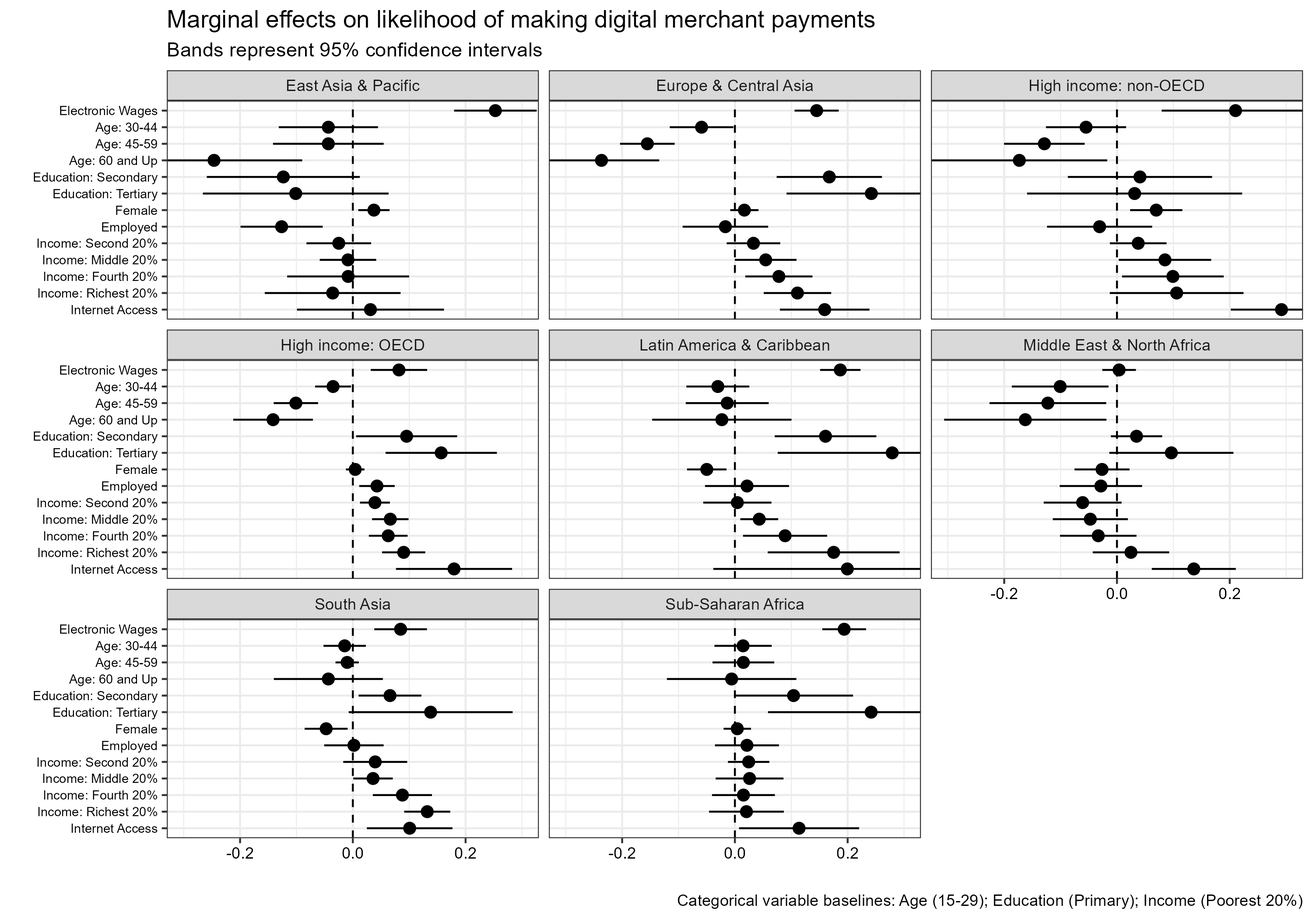
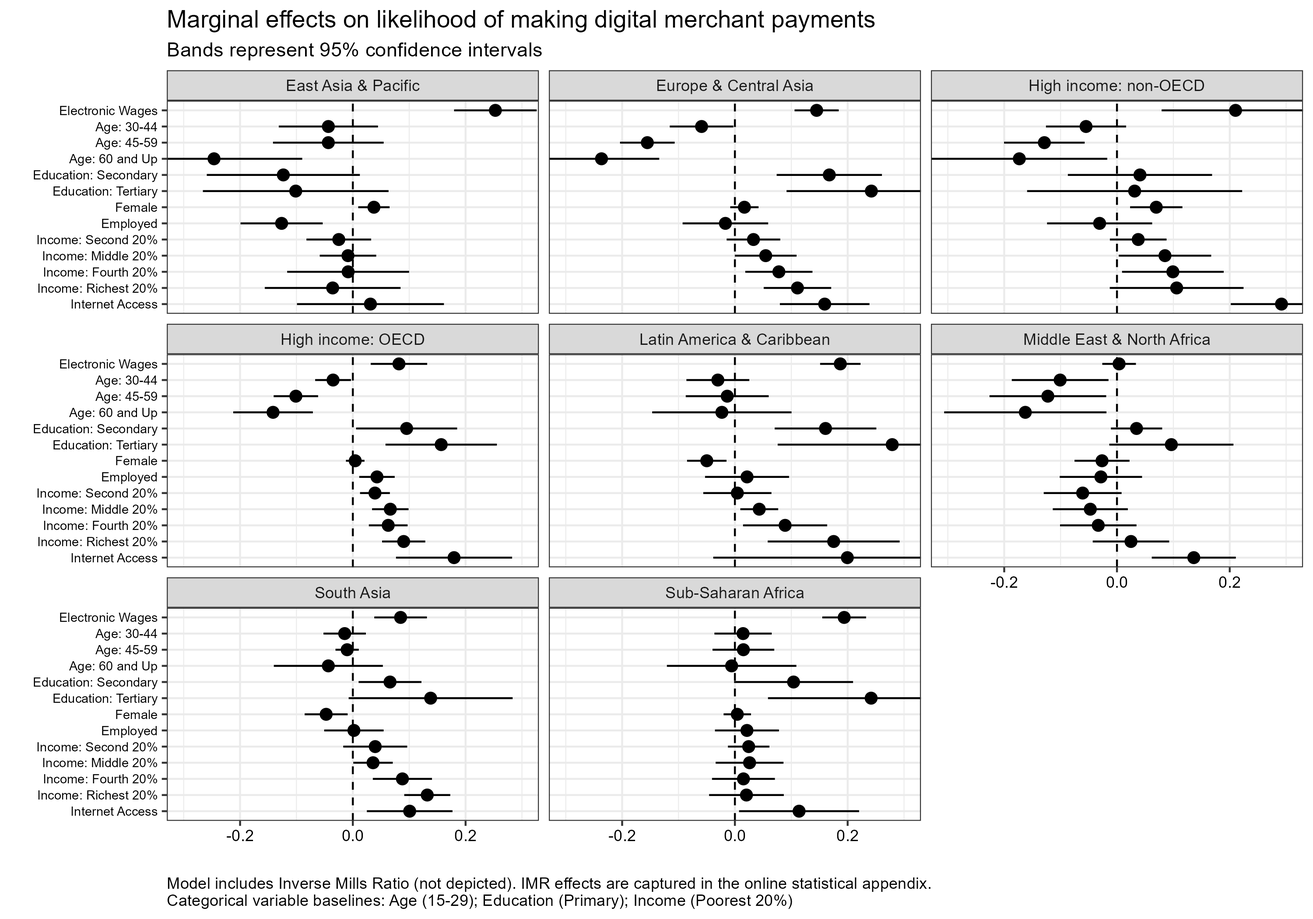
Adapted original appendix tables to updated results.

diff --git a/output/uptake.html b/output/uptake.html
@@ -5,48 +5,48 @@
 <tr><td style="text-align:left"></td><td colspan="9"></td></tr>
 <tr><td style="text-align:left"></td><td>Global</td><td>EAP</td><td>ECA</td><td>HI-OECD</td><td>HI-Other</td><td>LAC</td><td>MENA</td><td>SAS</td><td>SSA</td></tr>
 <tr><td style="text-align:left"></td><td>(1)</td><td>(2)</td><td>(3)</td><td>(4)</td><td>(5)</td><td>(6)</td><td>(7)</td><td>(8)</td><td>(9)</td></tr>
-<tr><td colspan="10" style="border-bottom: 1px solid black"></td></tr><tr><td style="text-align:left">Age: 30-44</td><td>0.307<sup>***</sup></td><td>0.431<sup>***</sup></td><td>0.231<sup>***</sup></td><td>0.254<sup>***</sup></td><td>0.188<sup>***</sup></td><td>0.275<sup>***</sup></td><td>0.473<sup>***</sup></td><td>0.388<sup>***</sup></td><td>0.191<sup>***</sup></td></tr>
+<tr><td colspan="10" style="border-bottom: 1px solid black"></td></tr><tr><td style="text-align:left">Age: 30-44</td><td>0.292<sup>***</sup></td><td>0.431<sup>***</sup></td><td>0.231<sup>***</sup></td><td>0.254<sup>***</sup></td><td>0.188<sup>***</sup></td><td>0.275<sup>***</sup></td><td>0.473<sup>***</sup></td><td>0.388<sup>***</sup></td><td>0.191<sup>***</sup></td></tr>
 <tr><td style="text-align:left"></td><td>(0.011)</td><td>(0.035)</td><td>(0.030)</td><td>(0.051)</td><td>(0.053)</td><td>(0.029)</td><td>(0.036)</td><td>(0.038)</td><td>(0.022)</td></tr>
-<tr><td style="text-align:left">Age: 45-59</td><td>0.400<sup>***</sup></td><td>0.479<sup>***</sup></td><td>0.239<sup>***</sup></td><td>0.268<sup>***</sup></td><td>0.169<sup>***</sup></td><td>0.234<sup>***</sup></td><td>0.536<sup>***</sup></td><td>0.438<sup>***</sup></td><td>0.268<sup>***</sup></td></tr>
-<tr><td style="text-align:left"></td><td>(0.012)</td><td>(0.040)</td><td>(0.031)</td><td>(0.053)</td><td>(0.051)</td><td>(0.034)</td><td>(0.042)</td><td>(0.044)</td><td>(0.028)</td></tr>
-<tr><td style="text-align:left">Age: 60 and Up</td><td>0.806<sup>***</sup></td><td>0.561<sup>***</sup></td><td>0.576<sup>***</sup></td><td>0.901<sup>***</sup></td><td>0.456<sup>***</sup></td><td>0.556<sup>***</sup></td><td>0.956<sup>***</sup></td><td>0.707<sup>***</sup></td><td>0.422<sup>***</sup></td></tr>
-<tr><td style="text-align:left"></td><td>(0.014)</td><td>(0.051)</td><td>(0.034)</td><td>(0.066)</td><td>(0.051)</td><td>(0.040)</td><td>(0.056)</td><td>(0.055)</td><td>(0.034)</td></tr>
-<tr><td style="text-align:left">Education: Secondary</td><td>0.462<sup>***</sup></td><td>0.468<sup>***</sup></td><td>0.387<sup>***</sup></td><td>0.425<sup>***</sup></td><td>0.338<sup>***</sup></td><td>0.324<sup>***</sup></td><td>0.256<sup>***</sup></td><td>0.359<sup>***</sup></td><td>0.484<sup>***</sup></td></tr>
+<tr><td style="text-align:left">Age: 45-59</td><td>0.326<sup>***</sup></td><td>0.479<sup>***</sup></td><td>0.239<sup>***</sup></td><td>0.268<sup>***</sup></td><td>0.169<sup>***</sup></td><td>0.234<sup>***</sup></td><td>0.536<sup>***</sup></td><td>0.438<sup>***</sup></td><td>0.268<sup>***</sup></td></tr>
+<tr><td style="text-align:left"></td><td>(0.013)</td><td>(0.040)</td><td>(0.031)</td><td>(0.053)</td><td>(0.051)</td><td>(0.034)</td><td>(0.042)</td><td>(0.044)</td><td>(0.028)</td></tr>
+<tr><td style="text-align:left">Age: 60 and Up</td><td>0.618<sup>***</sup></td><td>0.561<sup>***</sup></td><td>0.576<sup>***</sup></td><td>0.901<sup>***</sup></td><td>0.456<sup>***</sup></td><td>0.556<sup>***</sup></td><td>0.956<sup>***</sup></td><td>0.707<sup>***</sup></td><td>0.422<sup>***</sup></td></tr>
+<tr><td style="text-align:left"></td><td>(0.015)</td><td>(0.051)</td><td>(0.034)</td><td>(0.066)</td><td>(0.051)</td><td>(0.040)</td><td>(0.056)</td><td>(0.055)</td><td>(0.034)</td></tr>
+<tr><td style="text-align:left">Education: Secondary</td><td>0.390<sup>***</sup></td><td>0.468<sup>***</sup></td><td>0.387<sup>***</sup></td><td>0.425<sup>***</sup></td><td>0.338<sup>***</sup></td><td>0.324<sup>***</sup></td><td>0.256<sup>***</sup></td><td>0.359<sup>***</sup></td><td>0.484<sup>***</sup></td></tr>
 <tr><td style="text-align:left"></td><td>(0.010)</td><td>(0.031)</td><td>(0.025)</td><td>(0.050)</td><td>(0.039)</td><td>(0.027)</td><td>(0.034)</td><td>(0.036)</td><td>(0.021)</td></tr>
-<tr><td style="text-align:left">Education: Tertiary</td><td>0.897<sup>***</sup></td><td>1.176<sup>***</sup></td><td>0.808<sup>***</sup></td><td>0.494<sup>***</sup></td><td>0.803<sup>***</sup></td><td>0.825<sup>***</sup></td><td>0.878<sup>***</sup></td><td>0.729<sup>***</sup></td><td>1.007<sup>***</sup></td></tr>
-<tr><td style="text-align:left"></td><td>(0.017)</td><td>(0.061)</td><td>(0.039)</td><td>(0.063)</td><td>(0.074)</td><td>(0.044)</td><td>(0.053)</td><td>(0.096)</td><td>(0.080)</td></tr>
-<tr><td style="text-align:left">Sex: Female</td><td>-0.040<sup>***</sup></td><td>-0.087<sup>***</sup></td><td>-0.012</td><td>-0.002</td><td>-0.001</td><td>-0.130<sup>***</sup></td><td>-0.277<sup>***</sup></td><td>0.088<sup>***</sup></td><td>-0.063<sup>***</sup></td></tr>
+<tr><td style="text-align:left">Education: Tertiary</td><td>0.832<sup>***</sup></td><td>1.176<sup>***</sup></td><td>0.808<sup>***</sup></td><td>0.494<sup>***</sup></td><td>0.803<sup>***</sup></td><td>0.825<sup>***</sup></td><td>0.878<sup>***</sup></td><td>0.729<sup>***</sup></td><td>1.007<sup>***</sup></td></tr>
+<tr><td style="text-align:left"></td><td>(0.019)</td><td>(0.061)</td><td>(0.039)</td><td>(0.063)</td><td>(0.074)</td><td>(0.044)</td><td>(0.053)</td><td>(0.096)</td><td>(0.080)</td></tr>
+<tr><td style="text-align:left">Sex: Female</td><td>-0.062<sup>***</sup></td><td>-0.087<sup>***</sup></td><td>-0.012</td><td>-0.002</td><td>-0.001</td><td>-0.130<sup>***</sup></td><td>-0.277<sup>***</sup></td><td>0.088<sup>***</sup></td><td>-0.063<sup>***</sup></td></tr>
 <tr><td style="text-align:left"></td><td>(0.009)</td><td>(0.028)</td><td>(0.023)</td><td>(0.040)</td><td>(0.035)</td><td>(0.024)</td><td>(0.033)</td><td>(0.034)</td><td>(0.019)</td></tr>
-<tr><td style="text-align:left">Employed</td><td>0.303<sup>***</sup></td><td>-0.067<sup>**</sup></td><td>0.438<sup>***</sup></td><td>0.430<sup>***</sup></td><td>0.403<sup>***</sup></td><td>0.279<sup>***</sup></td><td>0.327<sup>***</sup></td><td>0.228<sup>***</sup></td><td>0.375<sup>***</sup></td></tr>
-<tr><td style="text-align:left"></td><td>(0.009)</td><td>(0.030)</td><td>(0.024)</td><td>(0.045)</td><td>(0.039)</td><td>(0.027)</td><td>(0.034)</td><td>(0.033)</td><td>(0.021)</td></tr>
-<tr><td style="text-align:left">Income: Second 20%</td><td>0.041<sup>***</sup></td><td>0.051</td><td>0.091<sup>***</sup></td><td>0.026</td><td>0.183<sup>***</sup></td><td>0.064<sup>*</sup></td><td>0.062</td><td>0.070</td><td>0.143<sup>***</sup></td></tr>
-<tr><td style="text-align:left"></td><td>(0.013)</td><td>(0.041)</td><td>(0.033)</td><td>(0.055)</td><td>(0.046)</td><td>(0.036)</td><td>(0.047)</td><td>(0.048)</td><td>(0.029)</td></tr>
-<tr><td style="text-align:left">Income: Middle 20%</td><td>0.041<sup>***</sup></td><td>-0.022</td><td>0.158<sup>***</sup></td><td>0.173<sup>***</sup></td><td>0.254<sup>***</sup></td><td>0.076<sup>**</sup></td><td>0.133<sup>***</sup></td><td>-0.023</td><td>0.211<sup>***</sup></td></tr>
-<tr><td style="text-align:left"></td><td>(0.013)</td><td>(0.042)</td><td>(0.034)</td><td>(0.058)</td><td>(0.051)</td><td>(0.036)</td><td>(0.048)</td><td>(0.048)</td><td>(0.029)</td></tr>
-<tr><td style="text-align:left">Income: Fourth 20%</td><td>0.055<sup>***</sup></td><td>0.043</td><td>0.247<sup>***</sup></td><td>0.258<sup>***</sup></td><td>0.280<sup>***</sup></td><td>0.129<sup>***</sup></td><td>0.145<sup>***</sup></td><td>0.048</td><td>0.212<sup>***</sup></td></tr>
-<tr><td style="text-align:left"></td><td>(0.013)</td><td>(0.044)</td><td>(0.035)</td><td>(0.061)</td><td>(0.054)</td><td>(0.037)</td><td>(0.048)</td><td>(0.049)</td><td>(0.029)</td></tr>
-<tr><td style="text-align:left">Income: Richest 20%</td><td>0.122<sup>***</sup></td><td>0.133<sup>***</sup></td><td>0.322<sup>***</sup></td><td>0.420<sup>***</sup></td><td>0.313<sup>***</sup></td><td>0.317<sup>***</sup></td><td>0.342<sup>***</sup></td><td>-0.056</td><td>0.351<sup>***</sup></td></tr>
-<tr><td style="text-align:left"></td><td>(0.014)</td><td>(0.047)</td><td>(0.037)</td><td>(0.067)</td><td>(0.060)</td><td>(0.039)</td><td>(0.050)</td><td>(0.052)</td><td>(0.030)</td></tr>
-<tr><td style="text-align:left">Internet Access</td><td>0.577<sup>***</sup></td><td>0.644<sup>***</sup></td><td>0.506<sup>***</sup></td><td>0.200<sup>***</sup></td><td>0.756<sup>***</sup></td><td>0.610<sup>***</sup></td><td>0.017</td><td>0.487<sup>***</sup></td><td>0.644<sup>***</sup></td></tr>
-<tr><td style="text-align:left"></td><td>(0.010)</td><td>(0.036)</td><td>(0.031)</td><td>(0.061)</td><td>(0.047)</td><td>(0.029)</td><td>(0.038)</td><td>(0.041)</td><td>(0.022)</td></tr>
-<tr><td style="text-align:left">Mobile Owner</td><td>0.527<sup>***</sup></td><td>0.606<sup>***</sup></td><td>0.422<sup>***</sup></td><td>0.332<sup>***</sup></td><td>0.432<sup>***</sup></td><td>0.332<sup>***</sup></td><td>0.293<sup>***</sup></td><td>0.282<sup>***</sup></td><td>0.754<sup>***</sup></td></tr>
+<tr><td style="text-align:left">Employed</td><td>0.290<sup>***</sup></td><td>-0.067<sup>**</sup></td><td>0.438<sup>***</sup></td><td>0.430<sup>***</sup></td><td>0.403<sup>***</sup></td><td>0.279<sup>***</sup></td><td>0.327<sup>***</sup></td><td>0.228<sup>***</sup></td><td>0.375<sup>***</sup></td></tr>
+<tr><td style="text-align:left"></td><td>(0.010)</td><td>(0.030)</td><td>(0.024)</td><td>(0.045)</td><td>(0.039)</td><td>(0.027)</td><td>(0.034)</td><td>(0.033)</td><td>(0.021)</td></tr>
+<tr><td style="text-align:left">Income: Second 20%</td><td>0.090<sup>***</sup></td><td>0.051</td><td>0.091<sup>***</sup></td><td>0.026</td><td>0.183<sup>***</sup></td><td>0.064<sup>*</sup></td><td>0.062</td><td>0.070</td><td>0.143<sup>***</sup></td></tr>
+<tr><td style="text-align:left"></td><td>(0.014)</td><td>(0.041)</td><td>(0.033)</td><td>(0.055)</td><td>(0.046)</td><td>(0.036)</td><td>(0.047)</td><td>(0.048)</td><td>(0.029)</td></tr>
+<tr><td style="text-align:left">Income: Middle 20%</td><td>0.124<sup>***</sup></td><td>-0.022</td><td>0.158<sup>***</sup></td><td>0.173<sup>***</sup></td><td>0.254<sup>***</sup></td><td>0.076<sup>**</sup></td><td>0.133<sup>***</sup></td><td>-0.023</td><td>0.211<sup>***</sup></td></tr>
+<tr><td style="text-align:left"></td><td>(0.014)</td><td>(0.042)</td><td>(0.034)</td><td>(0.058)</td><td>(0.051)</td><td>(0.036)</td><td>(0.048)</td><td>(0.048)</td><td>(0.029)</td></tr>
+<tr><td style="text-align:left">Income: Fourth 20%</td><td>0.168<sup>***</sup></td><td>0.043</td><td>0.247<sup>***</sup></td><td>0.258<sup>***</sup></td><td>0.280<sup>***</sup></td><td>0.129<sup>***</sup></td><td>0.145<sup>***</sup></td><td>0.048</td><td>0.212<sup>***</sup></td></tr>
+<tr><td style="text-align:left"></td><td>(0.014)</td><td>(0.044)</td><td>(0.035)</td><td>(0.061)</td><td>(0.054)</td><td>(0.037)</td><td>(0.048)</td><td>(0.049)</td><td>(0.029)</td></tr>
+<tr><td style="text-align:left">Income: Richest 20%</td><td>0.280<sup>***</sup></td><td>0.133<sup>***</sup></td><td>0.322<sup>***</sup></td><td>0.420<sup>***</sup></td><td>0.313<sup>***</sup></td><td>0.317<sup>***</sup></td><td>0.342<sup>***</sup></td><td>-0.056</td><td>0.351<sup>***</sup></td></tr>
+<tr><td style="text-align:left"></td><td>(0.015)</td><td>(0.047)</td><td>(0.037)</td><td>(0.067)</td><td>(0.060)</td><td>(0.039)</td><td>(0.050)</td><td>(0.052)</td><td>(0.030)</td></tr>
+<tr><td style="text-align:left">Internet Access</td><td>0.528<sup>***</sup></td><td>0.644<sup>***</sup></td><td>0.506<sup>***</sup></td><td>0.200<sup>***</sup></td><td>0.756<sup>***</sup></td><td>0.610<sup>***</sup></td><td>0.017</td><td>0.487<sup>***</sup></td><td>0.644<sup>***</sup></td></tr>
+<tr><td style="text-align:left"></td><td>(0.012)</td><td>(0.036)</td><td>(0.031)</td><td>(0.061)</td><td>(0.047)</td><td>(0.029)</td><td>(0.038)</td><td>(0.041)</td><td>(0.022)</td></tr>
+<tr><td style="text-align:left">Mobile Owner</td><td>0.538<sup>***</sup></td><td>0.606<sup>***</sup></td><td>0.422<sup>***</sup></td><td>0.332<sup>***</sup></td><td>0.432<sup>***</sup></td><td>0.332<sup>***</sup></td><td>0.293<sup>***</sup></td><td>0.282<sup>***</sup></td><td>0.754<sup>***</sup></td></tr>
 <tr><td style="text-align:left"></td><td>(0.014)</td><td>(0.054)</td><td>(0.046)</td><td>(0.098)</td><td>(0.059)</td><td>(0.039)</td><td>(0.059)</td><td>(0.037)</td><td>(0.023)</td></tr>
-<tr><td style="text-align:left">Worried Age: Somewhat</td><td>0.156<sup>***</sup></td><td>-0.086<sup>*</sup></td><td>0.240<sup>***</sup></td><td>0.190<sup>***</sup></td><td>0.269<sup>***</sup></td><td>0.107<sup>***</sup></td><td>0.105<sup>**</sup></td><td>-0.112<sup>**</sup></td><td>0.037</td></tr>
-<tr><td style="text-align:left"></td><td>(0.013)</td><td>(0.046)</td><td>(0.032)</td><td>(0.055)</td><td>(0.046)</td><td>(0.038)</td><td>(0.043)</td><td>(0.054)</td><td>(0.032)</td></tr>
-<tr><td style="text-align:left">Worried Age: Very</td><td>0.138<sup>***</sup></td><td>-0.322<sup>***</sup></td><td>0.231<sup>***</sup></td><td>0.127<sup>*</sup></td><td>0.294<sup>***</sup></td><td>0.197<sup>***</sup></td><td>0.153<sup>***</sup></td><td>0.190<sup>***</sup></td><td>0.010</td></tr>
-<tr><td style="text-align:left"></td><td>(0.014)</td><td>(0.052)</td><td>(0.038)</td><td>(0.070)</td><td>(0.059)</td><td>(0.042)</td><td>(0.047)</td><td>(0.055)</td><td>(0.030)</td></tr>
-<tr><td style="text-align:left">Worred Medical: Somewhat</td><td>-0.178<sup>***</sup></td><td>0.053</td><td>0.057</td><td>0.082</td><td>-0.096<sup>**</sup></td><td>-0.044</td><td>-0.099<sup>**</sup></td><td>-0.102</td><td>-0.158<sup>***</sup></td></tr>
-<tr><td style="text-align:left"></td><td>(0.014)</td><td>(0.049)</td><td>(0.036)</td><td>(0.057)</td><td>(0.048)</td><td>(0.043)</td><td>(0.049)</td><td>(0.064)</td><td>(0.037)</td></tr>
-<tr><td style="text-align:left">Worried Medical: Very</td><td>-0.324<sup>***</sup></td><td>0.014</td><td>0.016</td><td>-0.055</td><td>-0.359<sup>***</sup></td><td>-0.042</td><td>-0.230<sup>***</sup></td><td>-0.149<sup>**</sup></td><td>-0.160<sup>***</sup></td></tr>
-<tr><td style="text-align:left"></td><td>(0.015)</td><td>(0.054)</td><td>(0.040)</td><td>(0.068)</td><td>(0.057)</td><td>(0.046)</td><td>(0.052)</td><td>(0.066)</td><td>(0.035)</td></tr>
-<tr><td style="text-align:left">Worried Bills: Somewhat</td><td>-0.129<sup>***</sup></td><td>-0.114<sup>***</sup></td><td>-0.072<sup>**</sup></td><td>-0.085</td><td>-0.207<sup>***</sup></td><td>0.063<sup>*</sup></td><td>0.032</td><td>0.098<sup>*</sup></td><td>0.141<sup>***</sup></td></tr>
-<tr><td style="text-align:left"></td><td>(0.013)</td><td>(0.042)</td><td>(0.031)</td><td>(0.055)</td><td>(0.046)</td><td>(0.038)</td><td>(0.043)</td><td>(0.054)</td><td>(0.029)</td></tr>
-<tr><td style="text-align:left">Worried Bills: Very</td><td>-0.215<sup>***</sup></td><td>-0.200<sup>***</sup></td><td>-0.135<sup>***</sup></td><td>-0.028</td><td>-0.282<sup>***</sup></td><td>-0.059</td><td>-0.186<sup>***</sup></td><td>-0.013</td><td>0.061<sup>**</sup></td></tr>
-<tr><td style="text-align:left"></td><td>(0.014)</td><td>(0.048)</td><td>(0.037)</td><td>(0.070)</td><td>(0.057)</td><td>(0.042)</td><td>(0.048)</td><td>(0.055)</td><td>(0.028)</td></tr>
-<tr><td style="text-align:left">Constant</td><td>-0.881<sup>***</sup></td><td>-0.742<sup>***</sup></td><td>-1.346<sup>***</sup></td><td>-0.350<sup>***</sup></td><td>0.076</td><td>-1.268<sup>***</sup></td><td>-1.172<sup>***</sup></td><td>-0.715<sup>***</sup></td><td>-1.363<sup>***</sup></td></tr>
-<tr><td style="text-align:left"></td><td>(0.020)</td><td>(0.075)</td><td>(0.058)</td><td>(0.114)</td><td>(0.080)</td><td>(0.059)</td><td>(0.078)</td><td>(0.074)</td><td>(0.043)</td></tr>
+<tr><td style="text-align:left">Worried Age: Somewhat</td><td>0.104<sup>***</sup></td><td>-0.086<sup>*</sup></td><td>0.240<sup>***</sup></td><td>0.190<sup>***</sup></td><td>0.269<sup>***</sup></td><td>0.107<sup>***</sup></td><td>0.105<sup>**</sup></td><td>-0.112<sup>**</sup></td><td>0.037</td></tr>
+<tr><td style="text-align:left"></td><td>(0.014)</td><td>(0.046)</td><td>(0.032)</td><td>(0.055)</td><td>(0.046)</td><td>(0.038)</td><td>(0.043)</td><td>(0.054)</td><td>(0.032)</td></tr>
+<tr><td style="text-align:left">Worried Age: Very</td><td>0.104<sup>***</sup></td><td>-0.322<sup>***</sup></td><td>0.231<sup>***</sup></td><td>0.127<sup>*</sup></td><td>0.294<sup>***</sup></td><td>0.197<sup>***</sup></td><td>0.153<sup>***</sup></td><td>0.190<sup>***</sup></td><td>0.010</td></tr>
+<tr><td style="text-align:left"></td><td>(0.015)</td><td>(0.052)</td><td>(0.038)</td><td>(0.070)</td><td>(0.059)</td><td>(0.042)</td><td>(0.047)</td><td>(0.055)</td><td>(0.030)</td></tr>
+<tr><td style="text-align:left">Worried Medical: Somewhat</td><td>-0.049<sup>***</sup></td><td>0.053</td><td>0.057</td><td>0.082</td><td>-0.096<sup>**</sup></td><td>-0.044</td><td>-0.099<sup>**</sup></td><td>-0.102</td><td>-0.158<sup>***</sup></td></tr>
+<tr><td style="text-align:left"></td><td>(0.016)</td><td>(0.049)</td><td>(0.036)</td><td>(0.057)</td><td>(0.048)</td><td>(0.043)</td><td>(0.049)</td><td>(0.064)</td><td>(0.037)</td></tr>
+<tr><td style="text-align:left">Worried Medical: Very</td><td>-0.112<sup>***</sup></td><td>0.014</td><td>0.016</td><td>-0.055</td><td>-0.359<sup>***</sup></td><td>-0.042</td><td>-0.230<sup>***</sup></td><td>-0.149<sup>**</sup></td><td>-0.160<sup>***</sup></td></tr>
+<tr><td style="text-align:left"></td><td>(0.017)</td><td>(0.054)</td><td>(0.040)</td><td>(0.068)</td><td>(0.057)</td><td>(0.046)</td><td>(0.052)</td><td>(0.066)</td><td>(0.035)</td></tr>
+<tr><td style="text-align:left">Worried Bills: Somewhat</td><td>0.004</td><td>-0.114<sup>***</sup></td><td>-0.072<sup>**</sup></td><td>-0.085</td><td>-0.207<sup>***</sup></td><td>0.063<sup>*</sup></td><td>0.032</td><td>0.098<sup>*</sup></td><td>0.141<sup>***</sup></td></tr>
+<tr><td style="text-align:left"></td><td>(0.014)</td><td>(0.042)</td><td>(0.031)</td><td>(0.055)</td><td>(0.046)</td><td>(0.038)</td><td>(0.043)</td><td>(0.054)</td><td>(0.029)</td></tr>
+<tr><td style="text-align:left">Worried Bills: Very</td><td>-0.080<sup>***</sup></td><td>-0.200<sup>***</sup></td><td>-0.135<sup>***</sup></td><td>-0.028</td><td>-0.282<sup>***</sup></td><td>-0.059</td><td>-0.186<sup>***</sup></td><td>-0.013</td><td>0.061<sup>**</sup></td></tr>
+<tr><td style="text-align:left"></td><td>(0.015)</td><td>(0.048)</td><td>(0.037)</td><td>(0.070)</td><td>(0.057)</td><td>(0.042)</td><td>(0.048)</td><td>(0.055)</td><td>(0.028)</td></tr>
+<tr><td style="text-align:left">Constant</td><td>-1.041<sup>***</sup></td><td>-0.742<sup>***</sup></td><td>-1.346<sup>***</sup></td><td>-0.350<sup>***</sup></td><td>0.076</td><td>-1.268<sup>***</sup></td><td>-1.172<sup>***</sup></td><td>-0.715<sup>***</sup></td><td>-1.363<sup>***</sup></td></tr>
+<tr><td style="text-align:left"></td><td>(0.025)</td><td>(0.075)</td><td>(0.058)</td><td>(0.114)</td><td>(0.080)</td><td>(0.059)</td><td>(0.078)</td><td>(0.074)</td><td>(0.043)</td></tr>
 <tr><td colspan="10" style="border-bottom: 1px solid black"></td></tr><tr><td style="text-align:left">Observations</td><td>120,914</td><td>11,221</td><td>16,924</td><td>8,812</td><td>30,711</td><td>13,875</td><td>8,573</td><td>7,490</td><td>23,308</td></tr>
-<tr><td style="text-align:left">Log Likelihood</td><td>-56,620.260</td><td>-5,434.937</td><td>-8,772.115</td><td>-2,589.436</td><td>-3,039.492</td><td>-8,099.634</td><td>-5,009.253</td><td>-4,545.987</td><td>-12,339.410</td></tr>
-<tr><td style="text-align:left">Akaike Inf. Crit.</td><td>113,280.500</td><td>10,909.880</td><td>17,584.230</td><td>5,218.872</td><td>6,118.984</td><td>16,239.270</td><td>10,058.510</td><td>9,131.974</td><td>24,718.810</td></tr>
+<tr><td style="text-align:left">Log Likelihood</td><td>-50,981.750</td><td>-5,434.937</td><td>-8,772.115</td><td>-2,589.436</td><td>-3,039.492</td><td>-8,099.634</td><td>-5,009.253</td><td>-4,545.987</td><td>-12,339.410</td></tr>
+<tr><td style="text-align:left">Akaike Inf. Crit.</td><td>102,017.500</td><td>10,909.880</td><td>17,584.230</td><td>5,218.872</td><td>6,118.984</td><td>16,239.270</td><td>10,058.510</td><td>9,131.974</td><td>24,718.810</td></tr>
 <tr><td colspan="10" style="border-bottom: 1px solid black"></td></tr><tr><td style="text-align:left"><em>Note:</em></td><td colspan="9" style="text-align:right"><sup>*</sup>p<0.1; <sup>**</sup>p<0.05; <sup>***</sup>p<0.01</td></tr>
 </table>

diff --git a/output/usage.html b/output/usage.html
@@ -5,40 +5,40 @@
 <tr><td style="text-align:left"></td><td colspan="9"></td></tr>
 <tr><td style="text-align:left"></td><td>Global</td><td>EAP</td><td>ECA</td><td>HI-OECD</td><td>HI-Other</td><td>LAC</td><td>MENA</td><td>SAS</td><td>SSA</td></tr>
 <tr><td style="text-align:left"></td><td>(1)</td><td>(2)</td><td>(3)</td><td>(4)</td><td>(5)</td><td>(6)</td><td>(7)</td><td>(8)</td><td>(9)</td></tr>
-<tr><td colspan="10" style="border-bottom: 1px solid black"></td></tr><tr><td style="text-align:left">Electronic Wages</td><td>0.170<sup>***</sup></td><td>0.253<sup>***</sup></td><td>0.145<sup>***</sup></td><td>0.210<sup>***</sup></td><td>0.082<sup>***</sup></td><td>0.187<sup>***</sup></td><td>0.004</td><td>0.085<sup>***</sup></td><td>0.194<sup>***</sup></td></tr>
-<tr><td style="text-align:left"></td><td>(0.015)</td><td>(0.037)</td><td>(0.020)</td><td>(0.067)</td><td>(0.026)</td><td>(0.018)</td><td>(0.015)</td><td>(0.024)</td><td>(0.020)</td></tr>
-<tr><td style="text-align:left">Age: 30-44</td><td>-0.028<sup>**</sup></td><td>-0.043</td><td>-0.059<sup>**</sup></td><td>-0.055</td><td>-0.035<sup>**</sup></td><td>-0.030</td><td>-0.101<sup>**</sup></td><td>-0.014</td><td>0.014</td></tr>
+<tr><td colspan="10" style="border-bottom: 1px solid black"></td></tr><tr><td style="text-align:left">Electronic Wages</td><td>0.151<sup>***</sup></td><td>0.253<sup>***</sup></td><td>0.145<sup>***</sup></td><td>0.210<sup>***</sup></td><td>0.082<sup>***</sup></td><td>0.187<sup>***</sup></td><td>0.004</td><td>0.085<sup>***</sup></td><td>0.194<sup>***</sup></td></tr>
+<tr><td style="text-align:left"></td><td>(0.014)</td><td>(0.037)</td><td>(0.020)</td><td>(0.067)</td><td>(0.026)</td><td>(0.018)</td><td>(0.015)</td><td>(0.024)</td><td>(0.020)</td></tr>
+<tr><td style="text-align:left">Age: 30-44</td><td>-0.032<sup>***</sup></td><td>-0.043</td><td>-0.059<sup>**</sup></td><td>-0.055</td><td>-0.035<sup>**</sup></td><td>-0.030</td><td>-0.101<sup>**</sup></td><td>-0.014</td><td>0.014</td></tr>
 <tr><td style="text-align:left"></td><td>(0.012)</td><td>(0.045)</td><td>(0.029)</td><td>(0.036)</td><td>(0.016)</td><td>(0.028)</td><td>(0.044)</td><td>(0.019)</td><td>(0.026)</td></tr>
-<tr><td style="text-align:left">Age: 45-59</td><td>-0.066<sup>***</sup></td><td>-0.043</td><td>-0.155<sup>***</sup></td><td>-0.129<sup>***</sup></td><td>-0.101<sup>***</sup></td><td>-0.014</td><td>-0.123<sup>**</sup></td><td>-0.010</td><td>0.015</td></tr>
+<tr><td style="text-align:left">Age: 45-59</td><td>-0.074<sup>***</sup></td><td>-0.043</td><td>-0.155<sup>***</sup></td><td>-0.129<sup>***</sup></td><td>-0.101<sup>***</sup></td><td>-0.014</td><td>-0.123<sup>**</sup></td><td>-0.010</td><td>0.015</td></tr>
 <tr><td style="text-align:left"></td><td>(0.016)</td><td>(0.050)</td><td>(0.025)</td><td>(0.036)</td><td>(0.020)</td><td>(0.038)</td><td>(0.053)</td><td>(0.011)</td><td>(0.028)</td></tr>
-<tr><td style="text-align:left">Age: 60 and Up</td><td>-0.134<sup>***</sup></td><td>-0.246<sup>***</sup></td><td>-0.237<sup>***</sup></td><td>-0.173<sup>**</sup></td><td>-0.142<sup>***</sup></td><td>-0.023</td><td>-0.163<sup>**</sup></td><td>-0.043</td><td>-0.006</td></tr>
-<tr><td style="text-align:left"></td><td>(0.038)</td><td>(0.080)</td><td>(0.052)</td><td>(0.080)</td><td>(0.036)</td><td>(0.063)</td><td>(0.073)</td><td>(0.049)</td><td>(0.059)</td></tr>
-<tr><td style="text-align:left">Education: Secondary</td><td>0.047</td><td>-0.123<sup>*</sup></td><td>0.167<sup>***</sup></td><td>0.041</td><td>0.095<sup>**</sup></td><td>0.161<sup>***</sup></td><td>0.035</td><td>0.066<sup>**</sup></td><td>0.104<sup>*</sup></td></tr>
-<tr><td style="text-align:left"></td><td>(0.055)</td><td>(0.069)</td><td>(0.048)</td><td>(0.065)</td><td>(0.046)</td><td>(0.046)</td><td>(0.023)</td><td>(0.028)</td><td>(0.054)</td></tr>
-<tr><td style="text-align:left">Education: Tertiary</td><td>0.113<sup>*</sup></td><td>-0.101</td><td>0.242<sup>***</sup></td><td>0.031</td><td>0.157<sup>***</sup></td><td>0.279<sup>***</sup></td><td>0.096<sup>*</sup></td><td>0.138<sup>*</sup></td><td>0.242<sup>***</sup></td></tr>
-<tr><td style="text-align:left"></td><td>(0.059)</td><td>(0.084)</td><td>(0.077)</td><td>(0.097)</td><td>(0.050)</td><td>(0.104)</td><td>(0.056)</td><td>(0.074)</td><td>(0.093)</td></tr>
-<tr><td style="text-align:left">Sex: Female</td><td>0.013<sup>*</sup></td><td>0.037<sup>***</sup></td><td>0.017</td><td>0.070<sup>***</sup></td><td>0.004</td><td>-0.050<sup>***</sup></td><td>-0.026</td><td>-0.047<sup>**</sup></td><td>0.004</td></tr>
+<tr><td style="text-align:left">Age: 60 and Up</td><td>-0.135<sup>***</sup></td><td>-0.246<sup>***</sup></td><td>-0.237<sup>***</sup></td><td>-0.173<sup>**</sup></td><td>-0.142<sup>***</sup></td><td>-0.023</td><td>-0.163<sup>**</sup></td><td>-0.043</td><td>-0.006</td></tr>
+<tr><td style="text-align:left"></td><td>(0.022)</td><td>(0.080)</td><td>(0.052)</td><td>(0.080)</td><td>(0.036)</td><td>(0.063)</td><td>(0.073)</td><td>(0.049)</td><td>(0.059)</td></tr>
+<tr><td style="text-align:left">Education: Secondary</td><td>0.065<sup>***</sup></td><td>-0.123<sup>*</sup></td><td>0.167<sup>***</sup></td><td>0.041</td><td>0.095<sup>**</sup></td><td>0.161<sup>***</sup></td><td>0.035</td><td>0.066<sup>**</sup></td><td>0.104<sup>*</sup></td></tr>
+<tr><td style="text-align:left"></td><td>(0.023)</td><td>(0.069)</td><td>(0.048)</td><td>(0.065)</td><td>(0.046)</td><td>(0.046)</td><td>(0.023)</td><td>(0.028)</td><td>(0.054)</td></tr>
+<tr><td style="text-align:left">Education: Tertiary</td><td>0.125<sup>***</sup></td><td>-0.101</td><td>0.242<sup>***</sup></td><td>0.031</td><td>0.157<sup>***</sup></td><td>0.279<sup>***</sup></td><td>0.096<sup>*</sup></td><td>0.138<sup>*</sup></td><td>0.242<sup>***</sup></td></tr>
+<tr><td style="text-align:left"></td><td>(0.029)</td><td>(0.084)</td><td>(0.077)</td><td>(0.097)</td><td>(0.050)</td><td>(0.104)</td><td>(0.056)</td><td>(0.074)</td><td>(0.093)</td></tr>
+<tr><td style="text-align:left">Sex: Female</td><td>0.006</td><td>0.037<sup>***</sup></td><td>0.017</td><td>0.070<sup>***</sup></td><td>0.004</td><td>-0.050<sup>***</sup></td><td>-0.026</td><td>-0.047<sup>**</sup></td><td>0.004</td></tr>
 <tr><td style="text-align:left"></td><td>(0.007)</td><td>(0.014)</td><td>(0.013)</td><td>(0.024)</td><td>(0.008)</td><td>(0.018)</td><td>(0.025)</td><td>(0.019)</td><td>(0.012)</td></tr>
-<tr><td style="text-align:left">Employed</td><td>-0.036</td><td>-0.126<sup>***</sup></td><td>-0.017</td><td>-0.031</td><td>0.043<sup>***</sup></td><td>0.022</td><td>-0.029</td><td>0.002</td><td>0.021</td></tr>
-<tr><td style="text-align:left"></td><td>(0.029)</td><td>(0.037)</td><td>(0.039)</td><td>(0.048)</td><td>(0.016)</td><td>(0.038)</td><td>(0.037)</td><td>(0.027)</td><td>(0.029)</td></tr>
-<tr><td style="text-align:left">Income: Second 20%</td><td>0.019<sup>**</sup></td><td>-0.025</td><td>0.033</td><td>0.038</td><td>0.039<sup>***</sup></td><td>0.004</td><td>-0.061<sup>*</sup></td><td>0.040</td><td>0.024</td></tr>
-<tr><td style="text-align:left"></td><td>(0.009)</td><td>(0.029)</td><td>(0.024)</td><td>(0.026)</td><td>(0.014)</td><td>(0.031)</td><td>(0.035)</td><td>(0.029)</td><td>(0.019)</td></tr>
-<tr><td style="text-align:left">Income: Middle 20%</td><td>0.033<sup>***</sup></td><td>-0.009</td><td>0.055<sup>*</sup></td><td>0.085<sup>**</sup></td><td>0.066<sup>***</sup></td><td>0.043<sup>**</sup></td><td>-0.047</td><td>0.036<sup>**</sup></td><td>0.026</td></tr>
-<tr><td style="text-align:left"></td><td>(0.010)</td><td>(0.026)</td><td>(0.028)</td><td>(0.042)</td><td>(0.017)</td><td>(0.017)</td><td>(0.034)</td><td>(0.018)</td><td>(0.031)</td></tr>
-<tr><td style="text-align:left">Income: Fourth 20%</td><td>0.041<sup>***</sup></td><td>-0.008</td><td>0.078<sup>**</sup></td><td>0.099<sup>**</sup></td><td>0.063<sup>***</sup></td><td>0.089<sup>**</sup></td><td>-0.033</td><td>0.088<sup>***</sup></td><td>0.015</td></tr>
-<tr><td style="text-align:left"></td><td>(0.013)</td><td>(0.055)</td><td>(0.030)</td><td>(0.046)</td><td>(0.018)</td><td>(0.038)</td><td>(0.035)</td><td>(0.027)</td><td>(0.028)</td></tr>
-<tr><td style="text-align:left">Income: Richest 20%</td><td>0.060<sup>***</sup></td><td>-0.036</td><td>0.111<sup>***</sup></td><td>0.106<sup>*</sup></td><td>0.090<sup>***</sup></td><td>0.175<sup>***</sup></td><td>0.025</td><td>0.132<sup>***</sup></td><td>0.020</td></tr>
-<tr><td style="text-align:left"></td><td>(0.016)</td><td>(0.061)</td><td>(0.031)</td><td>(0.061)</td><td>(0.020)</td><td>(0.060)</td><td>(0.035)</td><td>(0.021)</td><td>(0.034)</td></tr>
-<tr><td style="text-align:left">Internet Access</td><td>0.177<sup>***</sup></td><td>0.031</td><td>0.159<sup>***</sup></td><td>0.292<sup>***</sup></td><td>0.180<sup>***</sup></td><td>0.199</td><td>0.136<sup>***</sup></td><td>0.101<sup>***</sup></td><td>0.114<sup>**</sup></td></tr>
-<tr><td style="text-align:left"></td><td>(0.025)</td><td>(0.067)</td><td>(0.041)</td><td>(0.046)</td><td>(0.053)</td><td>(0.121)</td><td>(0.038)</td><td>(0.039)</td><td>(0.054)</td></tr>
-<tr><td style="text-align:left">Mobile Owner</td><td>0.122<sup>***</sup></td><td>0.067</td><td>-0.003</td><td>-0.053</td><td>0.397<sup>***</sup></td><td>0.066</td><td>-0.012</td><td>0.030</td><td>0.041</td></tr>
-<tr><td style="text-align:left"></td><td>(0.037)</td><td>(0.056)</td><td>(0.057)</td><td>(0.058)</td><td>(0.046)</td><td>(0.056)</td><td>(0.042)</td><td>(0.025)</td><td>(0.076)</td></tr>
-<tr><td style="text-align:left">IMR</td><td>-0.136</td><td>-0.533<sup>***</sup></td><td>-0.146</td><td>-0.227</td><td>0.364</td><td>0.106</td><td>-0.123</td><td>-0.073</td><td>0.017</td></tr>
-<tr><td style="text-align:left"></td><td>(0.089)</td><td>(0.200)</td><td>(0.154)</td><td>(0.290)</td><td>(0.228)</td><td>(0.231)</td><td>(0.103)</td><td>(0.081)</td><td>(0.131)</td></tr>
-<tr><td style="text-align:left">Constant</td><td>-0.947<sup>***</sup></td><td>1.335<sup>*</sup></td><td>-0.544</td><td>-0.790</td><td>-1.922<sup>***</sup></td><td>-1.716</td><td>-0.618</td><td>-1.848<sup>***</sup></td><td>-1.421<sup>**</sup></td></tr>
-<tr><td style="text-align:left"></td><td>(0.357)</td><td>(0.741)</td><td>(0.530)</td><td>(0.710)</td><td>(0.294)</td><td>(1.217)</td><td>(0.705)</td><td>(0.447)</td><td>(0.664)</td></tr>
+<tr><td style="text-align:left">Employed</td><td>-0.021</td><td>-0.126<sup>***</sup></td><td>-0.017</td><td>-0.031</td><td>0.043<sup>***</sup></td><td>0.022</td><td>-0.029</td><td>0.002</td><td>0.021</td></tr>
+<tr><td style="text-align:left"></td><td>(0.013)</td><td>(0.037)</td><td>(0.039)</td><td>(0.048)</td><td>(0.016)</td><td>(0.038)</td><td>(0.037)</td><td>(0.027)</td><td>(0.029)</td></tr>
+<tr><td style="text-align:left">Income: Second 20%</td><td>0.021<sup>***</sup></td><td>-0.025</td><td>0.033</td><td>0.038</td><td>0.039<sup>***</sup></td><td>0.004</td><td>-0.061<sup>*</sup></td><td>0.040</td><td>0.024</td></tr>
+<tr><td style="text-align:left"></td><td>(0.007)</td><td>(0.029)</td><td>(0.024)</td><td>(0.026)</td><td>(0.014)</td><td>(0.031)</td><td>(0.035)</td><td>(0.029)</td><td>(0.019)</td></tr>
+<tr><td style="text-align:left">Income: Middle 20%</td><td>0.040<sup>***</sup></td><td>-0.009</td><td>0.055<sup>*</sup></td><td>0.085<sup>**</sup></td><td>0.066<sup>***</sup></td><td>0.043<sup>**</sup></td><td>-0.047</td><td>0.036<sup>**</sup></td><td>0.026</td></tr>
+<tr><td style="text-align:left"></td><td>(0.008)</td><td>(0.026)</td><td>(0.028)</td><td>(0.042)</td><td>(0.017)</td><td>(0.017)</td><td>(0.034)</td><td>(0.018)</td><td>(0.031)</td></tr>
+<tr><td style="text-align:left">Income: Fourth 20%</td><td>0.050<sup>***</sup></td><td>-0.008</td><td>0.078<sup>**</sup></td><td>0.099<sup>**</sup></td><td>0.063<sup>***</sup></td><td>0.089<sup>**</sup></td><td>-0.033</td><td>0.088<sup>***</sup></td><td>0.015</td></tr>
+<tr><td style="text-align:left"></td><td>(0.010)</td><td>(0.055)</td><td>(0.030)</td><td>(0.046)</td><td>(0.018)</td><td>(0.038)</td><td>(0.035)</td><td>(0.027)</td><td>(0.028)</td></tr>
+<tr><td style="text-align:left">Income: Richest 20%</td><td>0.076<sup>***</sup></td><td>-0.036</td><td>0.111<sup>***</sup></td><td>0.106<sup>*</sup></td><td>0.090<sup>***</sup></td><td>0.175<sup>***</sup></td><td>0.025</td><td>0.132<sup>***</sup></td><td>0.020</td></tr>
+<tr><td style="text-align:left"></td><td>(0.011)</td><td>(0.061)</td><td>(0.031)</td><td>(0.061)</td><td>(0.020)</td><td>(0.060)</td><td>(0.035)</td><td>(0.021)</td><td>(0.034)</td></tr>
+<tr><td style="text-align:left">Internet Access</td><td>0.132<sup>***</sup></td><td>0.031</td><td>0.159<sup>***</sup></td><td>0.292<sup>***</sup></td><td>0.180<sup>***</sup></td><td>0.199</td><td>0.136<sup>***</sup></td><td>0.101<sup>***</sup></td><td>0.114<sup>**</sup></td></tr>
+<tr><td style="text-align:left"></td><td>(0.023)</td><td>(0.067)</td><td>(0.041)</td><td>(0.046)</td><td>(0.053)</td><td>(0.121)</td><td>(0.038)</td><td>(0.039)</td><td>(0.054)</td></tr>
+<tr><td style="text-align:left">Mobile Owner</td><td>0.100<sup>***</sup></td><td>0.067</td><td>-0.003</td><td>-0.053</td><td>0.397<sup>***</sup></td><td>0.066</td><td>-0.012</td><td>0.030</td><td>0.041</td></tr>
+<tr><td style="text-align:left"></td><td>(0.026)</td><td>(0.056)</td><td>(0.057)</td><td>(0.058)</td><td>(0.046)</td><td>(0.056)</td><td>(0.042)</td><td>(0.025)</td><td>(0.076)</td></tr>
+<tr><td style="text-align:left">IMR</td><td>-0.126<sup>**</sup></td><td>-0.533<sup>***</sup></td><td>-0.146</td><td>-0.227</td><td>0.364</td><td>0.106</td><td>-0.123</td><td>-0.073</td><td>0.017</td></tr>
+<tr><td style="text-align:left"></td><td>(0.056)</td><td>(0.200)</td><td>(0.154)</td><td>(0.290)</td><td>(0.228)</td><td>(0.231)</td><td>(0.103)</td><td>(0.081)</td><td>(0.131)</td></tr>
+<tr><td style="text-align:left">Constant</td><td>-0.258</td><td>1.335<sup>*</sup></td><td>-0.544</td><td>-0.790</td><td>-1.922<sup>***</sup></td><td>-1.716</td><td>-0.618</td><td>-1.848<sup>***</sup></td><td>-1.421<sup>**</sup></td></tr>
+<tr><td style="text-align:left"></td><td>(0.355)</td><td>(0.741)</td><td>(0.530)</td><td>(0.710)</td><td>(0.294)</td><td>(1.217)</td><td>(0.705)</td><td>(0.447)</td><td>(0.664)</td></tr>
 <tr><td colspan="10" style="border-bottom: 1px solid black"></td></tr><tr><td style="text-align:left">Observations</td><td>90,772</td><td>8,502</td><td>12,544</td><td>8,083</td><td>30,158</td><td>8,816</td><td>4,054</td><td>4,510</td><td>14,105</td></tr>
-<tr><td style="text-align:left">Log Likelihood</td><td>-51,073.950</td><td>-3,840.822</td><td>-6,797.596</td><td>-4,630.497</td><td>-18,803.130</td><td>-4,810.312</td><td>-1,463.966</td><td>-1,293.811</td><td>-6,510.494</td></tr>
-<tr><td style="text-align:left">Akaike Inf. Crit.</td><td>102,179.900</td><td>7,713.643</td><td>13,627.190</td><td>9,292.994</td><td>37,638.260</td><td>9,652.624</td><td>2,959.932</td><td>2,619.623</td><td>13,052.990</td></tr>
+<tr><td style="text-align:left">Log Likelihood</td><td>-49,154.720</td><td>-3,840.822</td><td>-6,797.596</td><td>-4,630.497</td><td>-18,803.130</td><td>-4,810.312</td><td>-1,463.966</td><td>-1,293.811</td><td>-6,510.494</td></tr>
+<tr><td style="text-align:left">Akaike Inf. Crit.</td><td>98,355.440</td><td>7,713.643</td><td>13,627.190</td><td>9,292.994</td><td>37,638.260</td><td>9,652.624</td><td>2,959.932</td><td>2,619.623</td><td>13,052.990</td></tr>
 <tr><td colspan="10" style="border-bottom: 1px solid black"></td></tr><tr><td style="text-align:left"><em>Note:</em></td><td colspan="9" style="text-align:right"><sup>*</sup>p<0.1; <sup>**</sup>p<0.05; <sup>***</sup>p<0.01</td></tr>
 </table>
